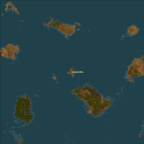
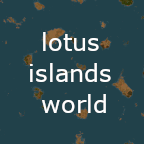
0.2.1
Version: 0.2.1
Date: 05. 26. 2023
  Changes:
    - Offshore Oil spawns now obey map seed RNG. Previously the control of Offshore Oil spawns by this mod was using non-seeded RNG.
    - Further balanced Offshore Oil spawn rates.
    - Added some checks that should prevent a reported crash when spawning new chunks, but I wasn't able to reproduce the crash myself.
    - Updated thumbnail & screenshots, considering this version a "beta" release for the mod.

diff --git a/lotus-mod/readme.md b/lotus-mod/readme.md
@@ -28,7 +28,8 @@ A collection of mods with some slight customization to create a core gameplay ar
 **Notes**
 
 * AAI Industry, which is not required, is the only mod in the pack that changes any vanilla recipes. If you exclude this, it should be compatible with most other mods.
-* If you do want the AI vehicles make sure to include the AAI Modpock. (listed as an optional dependency) If you do not want AAI Industry (the one that changes base game recipes), you can disable just that one mod and the parent modpack. All the AAI Modpack does is enable the other AAI mods, you don't need to have it on.
+* If you want the AI vehicles make sure to include the **Advanced Autonomous Vehicles** modpack in the optional dependencies. This pack is all of the AAI mods **except** AAI Industry. If you want to only include some of these, just disable the vehicles modpack and pick which ones you want.
+* If you want the recipe changes that make the early game and Red/Green science a bit tougher and things overall slightly more expensive, enable the **AAI Industry** optional dependency.
 
 **Integrated Mods with full list of changes made**
 
